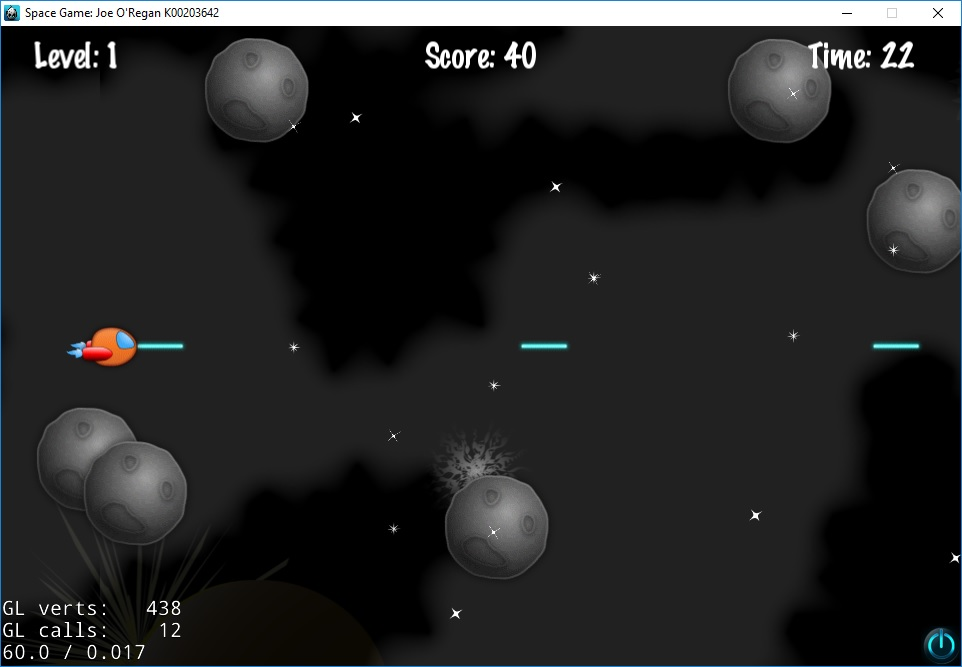
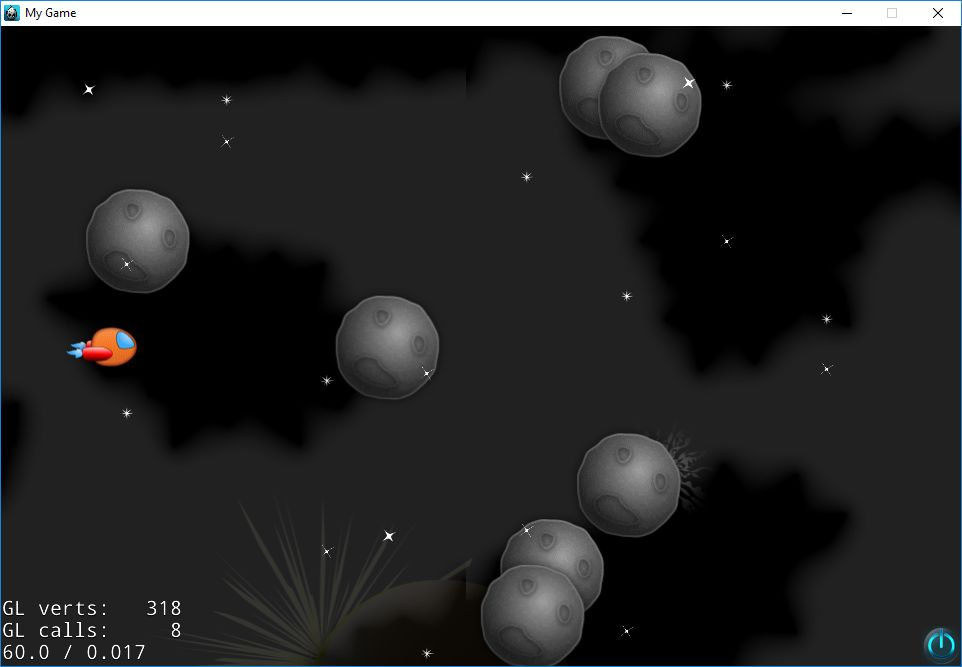
Added Input class

diff --git a/Classes/GameScene.cpp b/Classes/GameScene.cpp
@@ -11,6 +11,7 @@
 #include <string>
 #include <sstream>
 #include "HUD.h"
+#include "Input.h"
 
 // Needed to use to_string method with android
 template <typename T>
@@ -22,10 +23,15 @@ std::string to_string(T value) {
 
 USING_NS_CC;
 
+// Because cocos2d-x requres createScene to be static, we need to make other non-pointer members static
+std::map<cocos2d::EventKeyboard::KeyCode,
+	std::chrono::high_resolution_clock::time_point> Input::keys;
+
 DPad *controller;						// Add directional pad for mobile device
 
 Audio* Audio::s_pInstance;				// Singleton so only one instance of Audio exists in the game, for easy access
 HUD* HUD::s_pInstance;					// Singleton for Heads Up Display
+Input* Input::s_pInstance;				// Singleton for Input
 
 #define KNUMASTEROIDS 15				// Number of asteroids
 #define KNUMLASERS 5					// Number of lasers
@@ -57,6 +63,7 @@ bool GameScene::init() {
 	menu->setPosition(Point::ZERO);
 	this->addChild(menu, 1);
 
+
 	//  GALAXY
 
 	_batchNode = SpriteBatchNode::create("Sprites.pvr.ccz");
@@ -67,6 +74,10 @@ bool GameScene::init() {
 	_ship = Sprite::createWithSpriteFrameName("SpaceFlier_sm_1.png");
 	_ship->setPosition(visibleSize.width * 0.1, visibleSize.height * 0.5);
 	_batchNode->addChild(_ship, 1);
+
+	player = new Player(this);
+	_batchNode->addChild(player->getSprite());
+
 
 	// 1) Create the ParallaxNode
 	_backgroundNode = ParallaxNodeExtras::create();
@@ -130,19 +141,8 @@ bool GameScene::init() {
 	currentTime = getTimeTick();
 
 	// Display score, level number, and time
-	//score = 0;
-	//level = 1;
-	//time = 30;
-
 	HUD::Instance()->init(score, level, time);
-
-	//scoreText << "Score: " << score;
-	//scoreLabel = Label::createWithBMFont("Arial.fnt", scoreText.str().c_str());
-	//scoreLabel->setPosition(winSize.width / 2, winSize.height - 20);
-	//__String *tempScore = __String::createWithFormat("Score: %i", std::to_string(score));
-	//__String *tempLevel = __String::createWithFormat("Level: %i", std::to_string(level));
-	//__String *tempTime = __String::createWithFormat("Time: %i", std::to_string(time));
-
+	
 	__String *tempScore = __String::createWithFormat("Score: %i", score);
 	__String *tempLevel = __String::createWithFormat("Level: %i", level);
 	__String *tempTime = __String::createWithFormat("Time: %i", time);
@@ -167,6 +167,7 @@ bool GameScene::init() {
 	timeLabel->setPosition(Point(visibleSize.width - 100, visibleSize.height * 0.95 + origin.y));
 	this->addChild(timeLabel);
 
+	/*
 	// Ship Movement
 	auto eventListener = EventListenerKeyboard::create();
 	Director::getInstance()->getOpenGLView()->setIMEKeyboardState(true);
@@ -181,8 +182,11 @@ bool GameScene::init() {
 		// remove the key.  std::map.erase() doesn't care if the key doesnt exist
 		keys.erase(keyCode);
 	};
-
+	
 	this->_eventDispatcher->addEventListenerWithSceneGraphPriority(eventListener, this);
+	this->_eventDispatcher->addEventListenerWithSceneGraphPriority(Input::Instance()->init(), this);
+	*/
+	Input::Instance()->init(this, this->_eventDispatcher);
 
 	/*
 	//  menu item
@@ -206,7 +210,7 @@ bool GameScene::init() {
 
     return true;
 }
-
+/*
 bool GameScene::isKeyPressed(EventKeyboard::KeyCode code) {
 	// Check if the key is currently pressed by seeing it it's in the std::map keys
 	// In retrospect, keys is a terrible name for a key/value paried datatype isnt it?
@@ -225,7 +229,7 @@ double GameScene::keyPressedDuration(EventKeyboard::KeyCode code) {
 	return std::chrono::duration_cast<std::chrono::milliseconds>
 		(std::chrono::high_resolution_clock::now() - keys[code]).count();
 }
-
+*/
 void GameScene::update(float dt) {
 	float curTimeMillis = getTimeTick();																	// Current game time
 	winSize = Director::getInstance()->getWinSize();														// Dimensions of game screen
@@ -246,22 +250,18 @@ void GameScene::update(float dt) {
 void GameScene::getInput() {
 	// Windows keyboard
 	if (CC_TARGET_PLATFORM == CC_PLATFORM_WIN32) {
-		if (isKeyPressed(EventKeyboard::KeyCode::KEY_LEFT_ARROW)) {
-			_ship->setPosition(_ship->getPosition().x - 3.0f, _ship->getPosition().y);
-			//moveLeft();
+		if (Input::Instance()->isKeyPressed(EventKeyboard::KeyCode::KEY_LEFT_ARROW)) {
+			moveLeft();
 		}
-		else if (isKeyPressed(EventKeyboard::KeyCode::KEY_RIGHT_ARROW)) {
-			_ship->setPosition(_ship->getPosition().x + 3.0f, _ship->getPosition().y);
-			//moveRight();
+		else if (Input::Instance()->isKeyPressed(EventKeyboard::KeyCode::KEY_RIGHT_ARROW)) {
+			moveRight();
 		}
 
-		if (isKeyPressed(EventKeyboard::KeyCode::KEY_UP_ARROW)) {
-			_ship->setPosition(_ship->getPosition().x, _ship->getPosition().y + 3.0f);
-			//moveUp();
+		if (Input::Instance()->isKeyPressed(EventKeyboard::KeyCode::KEY_UP_ARROW)) {
+			moveUp();
 		}
-		else if (isKeyPressed(EventKeyboard::KeyCode::KEY_DOWN_ARROW)) {
-			_ship->setPosition(_ship->getPosition().x, _ship->getPosition().y - 3.0f);
-			//moveDown();
+		else if (Input::Instance()->isKeyPressed(EventKeyboard::KeyCode::KEY_DOWN_ARROW)) {
+			moveDown();
 		}
 	}
 
@@ -269,38 +269,23 @@ void GameScene::getInput() {
 	if (CC_TARGET_PLATFORM == CC_PLATFORM_ANDROID) {
 		if (controller->getButton(8)->isSelected()) {
 			moveUp();
-			CCLOG("Down button is pressed!");
+			//CCLOG("Down button is pressed!");
 		}
 		else if (controller->getButton(2)->isSelected()) {
 			moveDown();
-			CCLOG("Down button is pressed!");
+			//CCLOG("Down button is pressed!");
 		}
 		if (controller->getButton(4)->isSelected()) {
 			moveLeft();
-			CCLOG("Down button is pressed!");
+			//CCLOG("Down button is pressed!");
 		}
 		else if (controller->getButton(6)->isSelected()) {
 			moveRight();
-			CCLOG("Down button is pressed!");
+			//CCLOG("Down button is pressed!");
 		}
 	}
 }
 
-/*
-// Player ship movement
-void GameScene::moveUp(Ref* pSender) {
-	_ship->setPosition(_ship->getPosition().x, _ship->getPosition().y + 3.0f);
-}
-void GameScene::moveDown(Ref* pSender) {
-	_ship->setPosition(_ship->getPosition().x, _ship->getPosition().y - 3.0f);
-}
-void GameScene::moveLeft(Ref* pSender) {
-	_ship->setPosition(_ship->getPosition().x - 3.0f, _ship->getPosition().y);
-}
-void GameScene::moveRight(Ref* pSender) {
-	_ship->setPosition(_ship->getPosition().x + 3.0f, _ship->getPosition().y);
-}
-*/
 void GameScene::moveUp() {
 	_ship->setPosition(_ship->getPosition().x, _ship->getPosition().y + 3.0f);
 }
@@ -321,10 +306,6 @@ void GameScene::updateTimer() {
 		timeLabel->setString("Time: " + to_string(time));
 	}
 }
-
-// Because cocos2d-x requres createScene to be static, we need to make other non-pointer members static
-std::map<cocos2d::EventKeyboard::KeyCode,
-	std::chrono::high_resolution_clock::time_point> GameScene::keys;
 
 void GameScene::scrollBackground(float dt) {
 	auto backgroundScrollVert = Point(-1000, 0);

diff --git a/Classes/Input.h b/Classes/Input.h
@@ -1,0 +1,71 @@
+/*
+	Joe O'Regan
+	K00203642
+
+	Input.h
+*/
+#ifndef __INPUT__
+#define __INPUT__
+
+#include "cocos2d.h"
+
+class Input {
+public:
+	static Input* Instance() {
+		if (s_pInstance == 0) {
+			s_pInstance = new Input();
+			return s_pInstance;
+		}
+		return s_pInstance;
+	}
+	
+	bool isKeyPressed(cocos2d::EventKeyboard::KeyCode code) {
+		// Check if the key is currently pressed by seeing it it's in the std::map keys
+		// In retrospect, keys is a terrible name for a key/value paried datatype isnt it?
+		if (keys.find(code) != keys.end())
+			return true;
+		return false;
+	}
+
+	double keyPressedDuration(cocos2d::EventKeyboard::KeyCode code) {
+		if (!isKeyPressed(cocos2d::EventKeyboard::KeyCode::KEY_CTRL))
+			return 0;  // Not pressed, so no duration obviously
+
+					   // Return the amount of time that has elapsed between now and when the user
+					   // first started holding down the key in milliseconds
+					   // Obviously the start time is the value we hold in our std::map keys
+		return std::chrono::duration_cast<std::chrono::milliseconds>
+			(std::chrono::high_resolution_clock::now() - keys[code]).count();
+	}
+
+	void init(cocos2d::Layer *layer, cocos2d::EventDispatcher *eventDispatcher) {
+		auto eventListener = EventListenerKeyboard::create();
+		Director::getInstance()->getOpenGLView()->setIMEKeyboardState(true);
+		eventListener->onKeyPressed = [=](EventKeyboard::KeyCode keyCode, Event* event) {
+			// If a key already exists, do nothing as it will already have a time stamp
+			// Otherwise, set's the timestamp to now
+			if (keys.find(keyCode) == keys.end()) {
+				keys[keyCode] = std::chrono::high_resolution_clock::now();
+			}
+		};
+		eventListener->onKeyReleased = [=](EventKeyboard::KeyCode keyCode, Event* event) {
+			// remove the key.  std::map.erase() doesn't care if the key doesnt exist
+			keys.erase(keyCode);
+		};
+
+		eventDispatcher->addEventListenerWithSceneGraphPriority(eventListener, layer);
+	}
+
+private:
+	Input() {};																			// Constructor is private for use as a Singleton. Initializes the variables
+	~Input() {};																		// Private destructor shuts down and cleans up the mixer API
+
+	static Input* s_pInstance;															// Single instance of Input used as singleton so only one instance exists thoughout the game
+	
+	// Keyboard
+	static std::map<cocos2d::EventKeyboard::KeyCode,
+		std::chrono::high_resolution_clock::time_point> keys;
+};
+
+
+#endif // __INPUT__

diff --git a/Classes/GameScene.h b/Classes/GameScene.h
@@ -9,6 +9,7 @@
 #include "cocos2d.h"
 #include "ParallaxNodeExtras.h"
 //#include <sstream>															// 20180204 score
+#include "Player.h"
 
 USING_NS_CC;
 
@@ -56,10 +57,12 @@ public:
 	//void showScore();
 
 	// Keyboard
-	bool isKeyPressed(cocos2d::EventKeyboard::KeyCode);
-	double keyPressedDuration(cocos2d::EventKeyboard::KeyCode);
+	//bool isKeyPressed(cocos2d::EventKeyboard::KeyCode);
+	//double keyPressedDuration(cocos2d::EventKeyboard::KeyCode);
 
 private:
+	Player* player;
+
 	SpriteBatchNode *_batchNode;
 	Sprite *_ship;															// The main character
 	ParallaxNodeExtras *_backgroundNode;
@@ -92,8 +95,8 @@ private:
 	int currentTime;
 
 	// Keyboard
-	static std::map<cocos2d::EventKeyboard::KeyCode,
-		std::chrono::high_resolution_clock::time_point> keys;
+	//static std::map<cocos2d::EventKeyboard::KeyCode,
+	//	std::chrono::high_resolution_clock::time_point> keys;
 };
 
 #endif // __GAME_SCENE_H__

diff --git a/Classes/Player.cpp b/Classes/Player.cpp
@@ -1,0 +1,26 @@
+#include "Player.h"
+
+USING_NS_CC;
+
+#define PLAYER_MOVEMENT_SPEED 0.0025
+#define PLAYER_COLLISION_BITMASK 0x000001
+
+Player::Player(cocos2d::Layer *layer) {
+	visibleSize = Director::getInstance()->getVisibleSize();										// screen size
+	origin = Director::getInstance()->getVisibleOrigin();											// origin coorinate
+
+	player = Sprite::createWithSpriteFrameName("SpaceFlier_sm_1.png");
+	player->setPosition(visibleSize.width * 0.1, visibleSize.height * 0.5);
+/*
+	auto playerBody = PhysicsBody::createCircle(player->getContentSize().width / 2);
+	playerBody->setCollisionBitmask(PLAYER_COLLISION_BITMASK);
+	playerBody->setContactTestBitmask(true);
+
+	player->setPhysicsBody(playerBody);
+*/
+	//layer->addChild(player, 10);	// _batchNode->addChild(player->getSprite());
+}
+
+void Player::update() {
+
+}

diff --git a/Classes/Player.h b/Classes/Player.h
@@ -1,0 +1,21 @@
+#ifndef __PLAYER_H__
+#define __PLAYER_H__
+
+#include "cocos2d.h"
+
+class Player {
+public:
+	Player(cocos2d::Layer *layer);			// Player constructor
+
+	void update();							// Update player movement etc.
+
+	cocos2d::Sprite* getSprite() { return player; }
+
+private:
+	cocos2d::Size visibleSize;				// Visible screen size
+	cocos2d::Vec2 origin;					// Origin of the screen
+
+	cocos2d::Sprite *player;				// Player sprite
+};
+
+#endif // __BIRD_H__

diff --git a/Classes/Audio.h b/Classes/Audio.h
@@ -48,7 +48,6 @@ private:
 	~Audio() {};																		// Private destructor shuts down and cleans up the mixer API
 
 	static Audio* s_pInstance;															// Single instance of Audio used as singleton so only one instance exists thoughout the game
-
 };
 
 #endif // __AUDIO__

diff --git a/README.md b/README.md
@@ -1,7 +1,7 @@
 # Year-four Platform Games Development CA 
 # Cocos2d-x Space Game
 ## Side-scrolling 2D Space Shooter
-### 02/02/2018
+### 05/02/2018
 
 Cross-platform C++ game for Win32/Android created using Cocos2d-x created for the Platform Games Development module of year-four of Games Design and Development course using the Space Game tutorial at raywenderlich.com as a starting point
 
@@ -9,13 +9,23 @@ Cross-platform C++ game for Win32/Android created using Cocos2d-x created for th
 
 ## Screenshots:
 
-![Space Game](https://raw.githubusercontent.com/joeaoregan/Yr4-Platform-Games-Development-CA/master/Screenshots/Spacegame.jpg "Space Shooter: Original raywenderlich.com tutorial")
+![Space Game](https://raw.githubusercontent.com/joeaoregan/Yr4-Platform-Games-Development-CA/master/Screenshots/SpaceGame1SplashScreen.png "Space Shooter: Splash Screen")
+Space Shooter: Splash Screen
+
+---
+
+![Space Game](https://raw.githubusercontent.com/joeaoregan/Yr4-Platform-Games-Development-CA/master/Screenshots/SpaceGame2.jpg "Space Shooter: Original raywenderlich.com tutorial")
 Space Shooter: Original raywenderlich.com tutorial
 
 ---
 
-![Space Game: Added Level Number, Score, and Timer](https://raw.githubusercontent.com/joeaoregan/Yr4-Platform-Games-Development-CA/master/Screenshots/SpaceGame2.jpg "Space Shooter: Added Level Number, Score, and Timer")
+![Space Game: Added Level Number, Score, and Timer](https://raw.githubusercontent.com/joeaoregan/Yr4-Platform-Games-Development-CA/master/Screenshots/SpaceGame3.jpg "Space Shooter: Added Level Number, Score, and Timer")
 Space Shooter: Added Level Number, Score, Timer, and keyboard movement
+
+---
+
+![Space Game: Double Lasers](https://raw.githubusercontent.com/joeaoregan/Yr4-Platform-Games-Development-CA/master/Screenshots/SpaceGame4DoubleLaser.jpg "Space Shooter: Double Lasers")
+Space Shooter: Double Lasers
 
 ---
 
